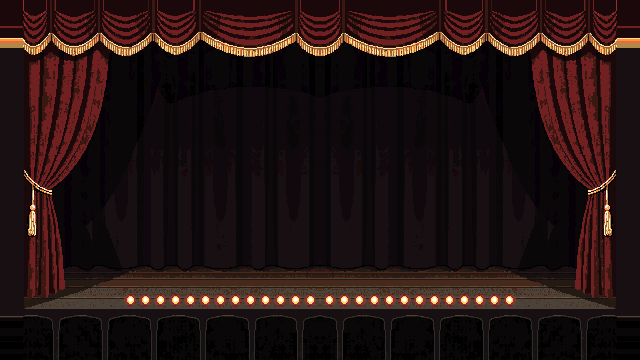
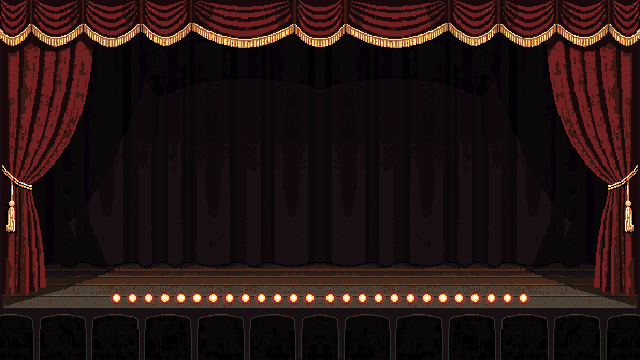
Scale the title's proscenium up to fill the frame instead of padding it out
Louis: "can't you just rescale it all? don't regenerate, don't try to fix it by
filling the rest, i just want you to rescale it so it all keeps looking good".

Running the outermost row and column out to the edges was the previous attempt and
it is not a fix: the band it fills with is the drape's dark outer fold, so the
border stayed dark and the curtains still started an inch inside the frame. The
picture has to be BIGGER, which costs 596 -> 640 across and 350 -> 360 down.

NEAREST, and that is the only decision here that is not arithmetic. At 1.074 x
1.029 a resample either duplicates about one column in fourteen and one row in
thirty-five, or invents colours between them. Both were tried: Lanczos re-snapped
through the dither came back speckled right across the curtain - the dither picks
between palette entries on gradients the interpolation has just softened - and the
seats turned to mush. Nearest copies pixels, so it cannot leave the palette and
cannot soften an edge, and the duplication is invisible on cloth. The fringe's
tassel rhythm survives it, which was the thing worth checking.

The LEFT HALF is scaled and mirrored rather than the whole frame: a resample of an
even width has no reason to duplicate the same columns either side of the axis.
Measured on the new bake: 0 max difference from its own mirror, 36 colours, all on
palette, and every edge row and column now carries picture rather than framing.
[…]

diff --git a/scripts/pixelise_menu.py b/scripts/pixelise_menu.py
@@ -192,44 +192,54 @@ def shift_half(a: np.ndarray, dx: int) -> np.ndarray:
 
 
 # How much a row or column has to vary along its own length before it counts as PICTURE
-# rather than as framing. A generated painting frames itself: half_lit came back with ten
-# perfectly uniform rows above the pelmet and nine columns of flat dark outside the drape,
-# and the shipped bake carried them onto the most-seen screen in the game as a black border
-# down both sides and across the top (2026-08-20, Louis: "fit the edges of the curtains to
-# the edges of the screen: no need for blackspace above and to the sides").
-BLEED_STD = 2.0
-BLEED_REL = 3.0     # ...or this many times the edge row's own variation, whichever is larger
+# rather than as framing - see fit(), which is what does something about it (2026-08-20,
+# Louis: "fit the edges of the curtains to the edges of the screen: no need for blackspace
+# above and to the sides").
+FIT_STD = 2.0
+FIT_REL = 3.0       # ...or this many times the edge row's own variation, whichever is larger
 
 
 def _margin(lum: np.ndarray) -> int:
 	"""How many leading rows of `lum` are flat framing rather than picture."""
 	edge = float(lum[0].std())
-	gate = max(BLEED_STD, edge * BLEED_REL)
+	gate = max(FIT_STD, edge * FIT_REL)
 	n = 0
 	while n < len(lum) - 1 and float(lum[n].std()) <= gate:
 		n += 1
 	return n
 
 
-def bleed(a: np.ndarray) -> np.ndarray:
-	"""Run the outermost real content out to the frame edges.
+def fit(a: np.ndarray) -> np.ndarray:
+	"""Scale the picture's real content up until it fills the frame.
 
 	A BACKDROP COVERS THE FRAME. That is the whole contract of `art_blit_rect` - the sprite is
 	stretched to the box it is given, and the box here is the viewport - so a painting that
 	frames ITSELF with empty space does not read as a picture with a border, it reads as a
-	game that has not filled its own window.
+	game that has not filled its own window. half_lit came back with ten perfectly uniform
+	rows above the pelmet and nine flat columns outside the drape, and the half-shift that
+	puts the mirror axis on a swag's low point adds thirteen more to each side.
 
-	Extending rather than cropping is forced by the one rule pixel art cannot bend: the bake is
-	640x360 and the screen is 1280x720, so it is drawn at exactly 2 screen pixels per art pixel.
-	Crop the 22-column margins away and the remaining 596 has to be stretched by 2.148, which is
-	a fractional resample of pixel art - the failure this whole pipeline exists to avoid. So the
-	content moves outward instead, by repeating the first real row/column into the flat band in
-	front of it: a valance continuing up behind the arch and a drape's dark outer fold running
-	off frame, which is what both of those things do in a real theatre.
+	**RESCALED, NOT FILLED** (2026-08-20, Louis: "can't you just rescale it all? don't
+	regenerate, don't try to fix it by filling the rest, i just want you to rescale it so it
+	all keeps looking good"). Running the outermost row and column out to the edges was tried
+	first and is not a fix: the band it fills with is the drape's dark outer fold, so the
+	border stayed dark and the curtains still started an inch inside the frame. What he is
+	asking for is the picture to be BIGGER, and it costs 596 -> 640 across and 350 -> 360 down.
 
-	Sides before top, so the corners are filled once and consistently: the top rows are copied
-	after the side columns already reach the edge, rather than carrying the old dark corners up
-	with them.
+	NEAREST, and this is the one decision here that is not arithmetic. The scale is 1.074 x
+	1.029, so a resample either duplicates about one column in fourteen and one row in
+	thirty-five (nearest) or invents new colours between them (anything smoothing). Tried
+	both: Lanczos then re-snapped through the dither came back speckled right across the
+	curtain, because the dither is picking between palette entries on gradients the
+	interpolation has just softened, and the seats at the bottom turned to mush. Nearest
+	copies pixels, so it cannot leave the palette, cannot soften an edge, and the duplication
+	is invisible on cloth - the fringe's tassel rhythm survives it, which was the thing worth
+	checking.
+
+	THE LEFT HALF IS SCALED AND MIRRORED, never the whole frame: a resample of an even width
+	has no reason to duplicate the same columns on both sides of the axis, and this picture's
+	symmetry is not decoration - see the note at the top of this file for what an asymmetric
+	proscenium looks like.
 
 	A no-op on a painting that already fills its frame, which is why it needs no flag.
 	"""
@@ -237,14 +247,14 @@ def bleed(a: np.ndarray) -> np.ndarray:
 	left = _margin(lum.T)
 	right = _margin(lum.T[::-1])
 	top = _margin(lum)
-	out = a.copy()
-	if left:
-		out[:, :left] = out[:, left:left + 1]
-	if right:
-		out[:, -right:] = out[:, -right - 1:-right]
-	if top:
-		out[:top] = out[top:top + 1]
-	return out
+	if not (left or right or top):
+		return a
+	h, w, _ = a.shape
+	content = a[top:, left:w - right]
+	half = content[:, :(content.shape[1] + 1) // 2]
+	grown = Image.fromarray(half.astype(np.uint8), "RGB").resize((w // 2, h), Image.NEAREST)
+	g = np.asarray(grown).astype(int)
+	return np.concatenate([g, g[:, ::-1]], axis=1)
 
 
 def build(src: Path, write: bool, force: bool, half: bool = False, mirror: bool = False,
@@ -274,7 +284,7 @@ def build(src: Path, write: bool, force: bool, half: bool = False, mirror: bool 
 	elif im.size != (ART_W, ART_H):
 		raise SystemExit(f"{src.name}: expected {ART_W}x{ART_H} or {ART_W*2}x{ART_H*2}, got {im.size}")
 
-	rgb = bleed(np.asarray(im).astype(int))
+	rgb = fit(np.asarray(im).astype(int))
 	out = snap_dithered(rgb, load_palette()).astype(np.uint8)
 	rgba = np.dstack([out, np.full(out.shape[:2], 255, np.uint8)])
 
